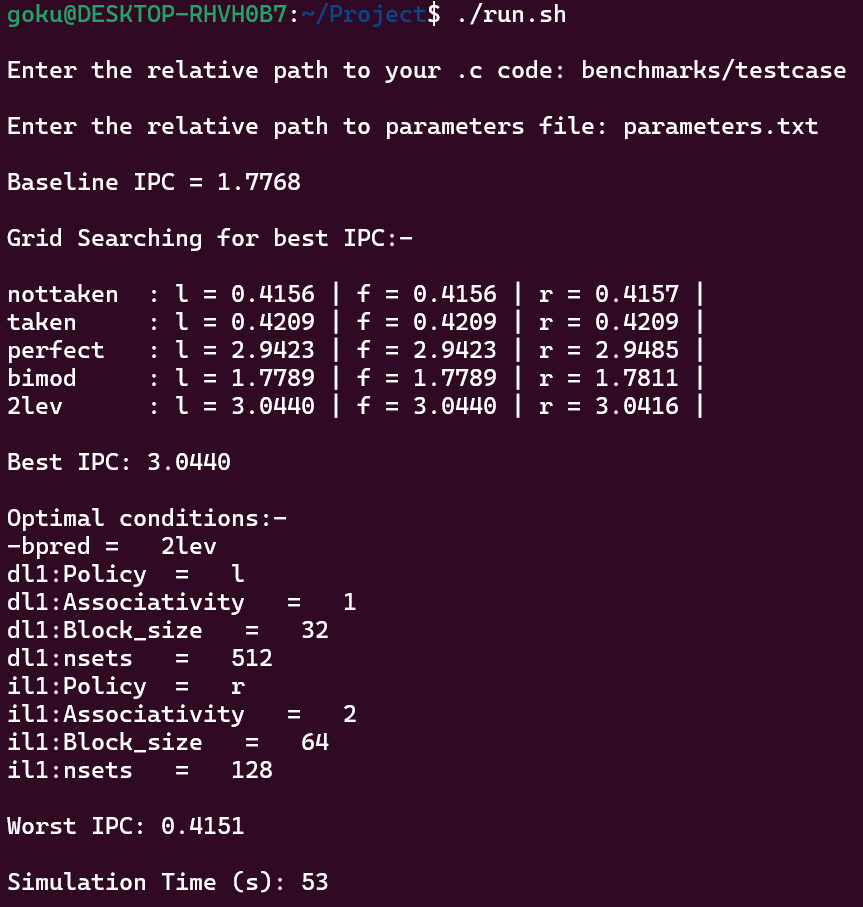
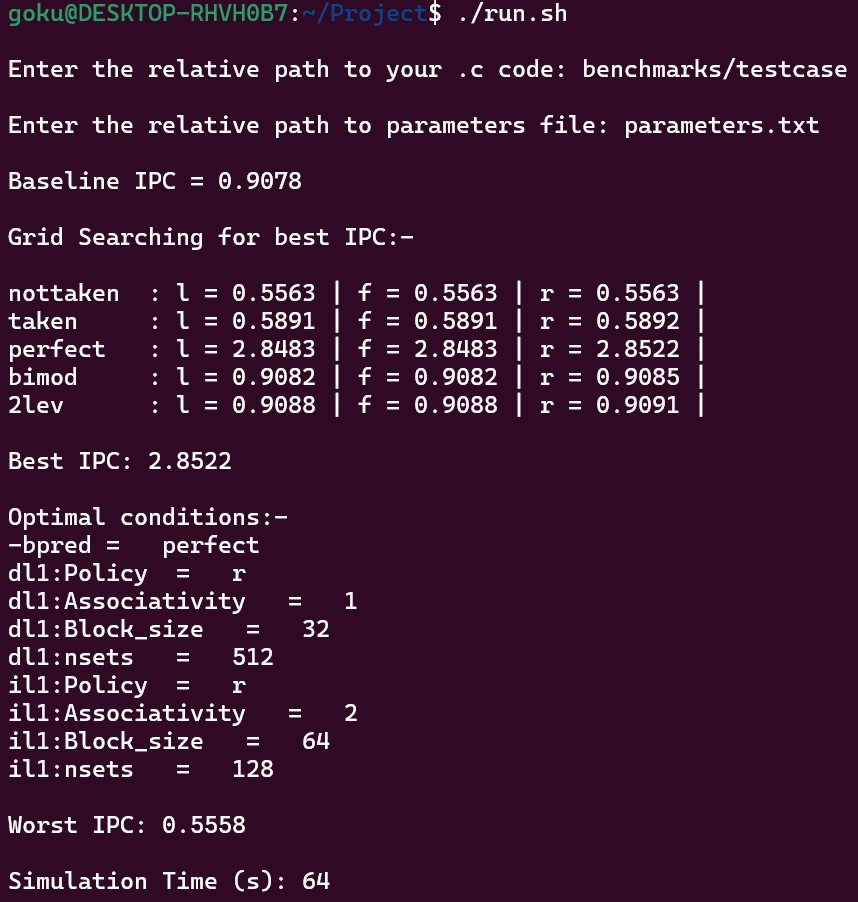
modify testcase

diff --git a/benchmarks/testcase.c b/benchmarks/testcase.c
@@ -1,7 +1,7 @@
 void main(){
     int i, j, x=0, y=0;
-    for(i=0;i<1000;i++){
-        for(j=0;j<10;j++){
+    for(i=0;i<5000;i++){
+        for(j=0;j<2;j++){
             if((i+j)&1) x++;
             else y++;
         }
